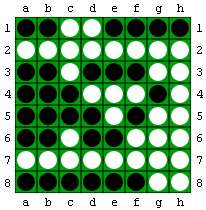
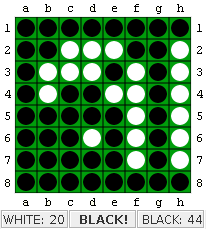
update readme and shots

diff --git a/README.md b/README.md
@@ -5,6 +5,6 @@
 Basically, there are two sided chips (also called discs) on a board. One side is black, and one side is white. Yours are the black chips and your opponents are the white. You can play the computer or another player. The goal is to end the game with as many chips showing your color as possible. To do this, you must sandwich your opponents chip(s) between a piece (showing your own color) currently on the board, and the piece you're putting down.
 
 ##Screenshot
-![othello](Othello/raw/master/doc/othello.png)
+![othello](Othello/raw/master/doc/mid_shot.png)
 
 
